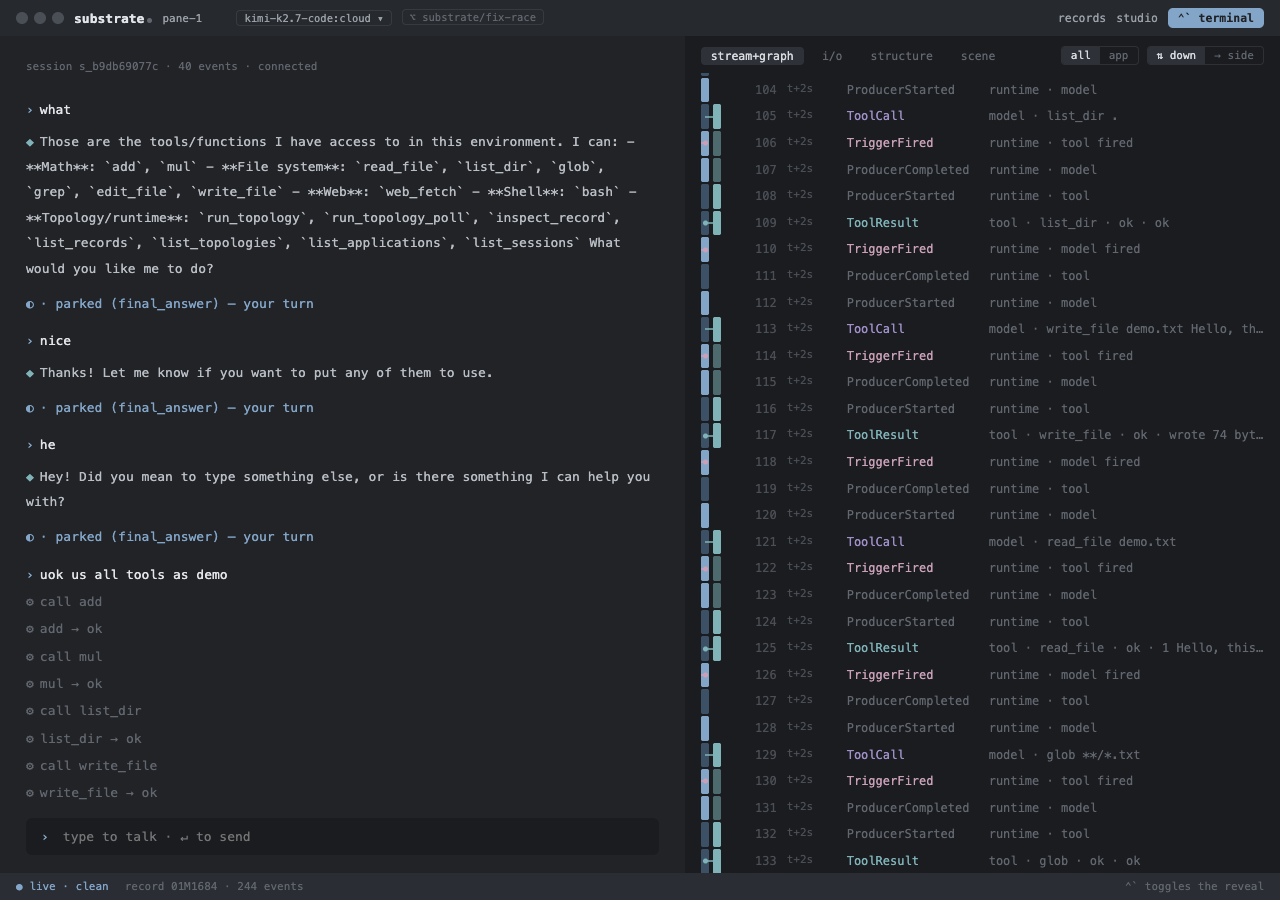
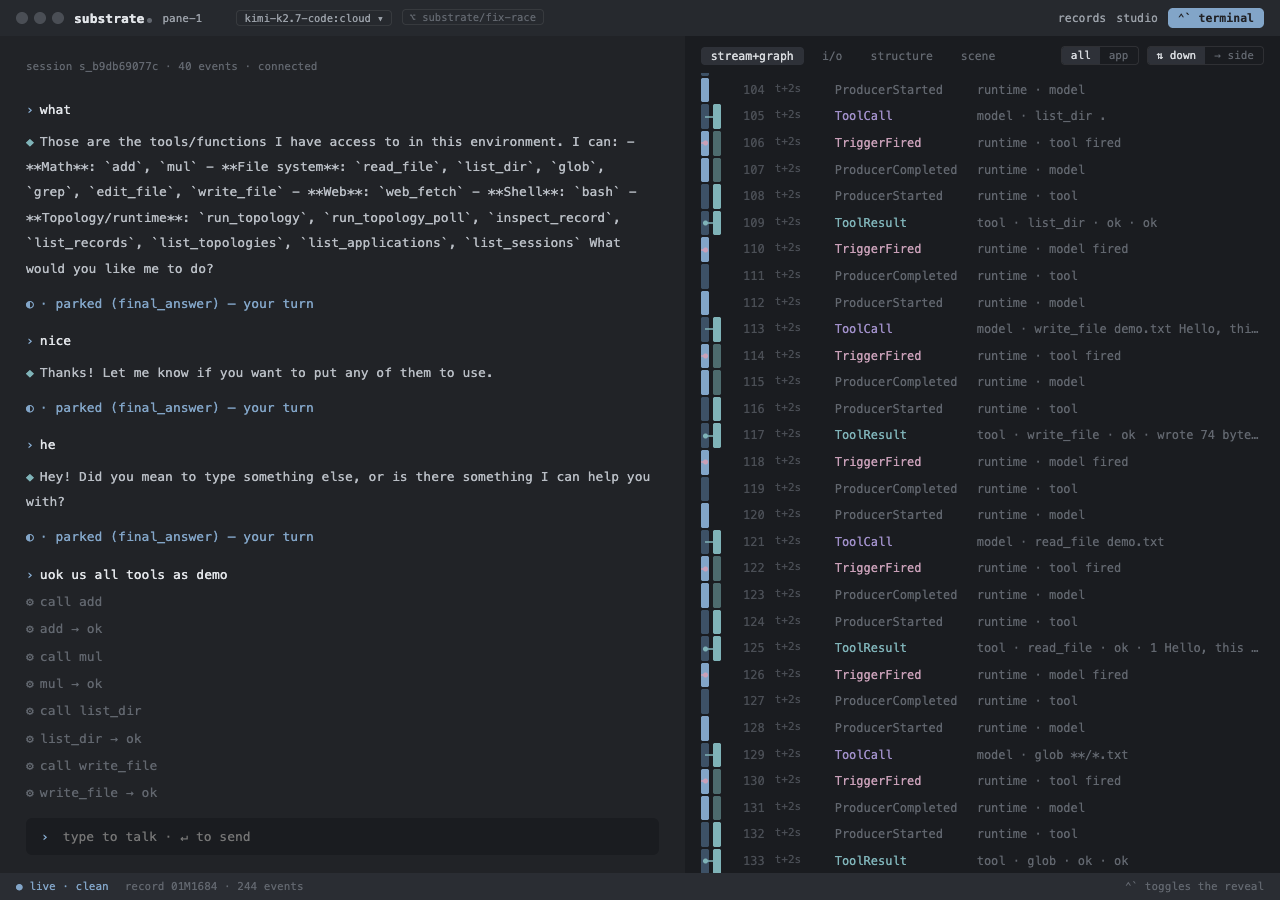
phase 4z11: two-lane shape — model + tool. Park/SessionEnded/FinalAnswer are dots on the model lifeline (session topology is model-centric)

diff --git a/web/reveal.html b/web/reveal.html
@@ -1018,40 +1018,40 @@ class Component extends DCLogic {
     // ToolCall → ToolResult; the model span runs its ProducerStarted → FinalAnswer; park spans
     // TriggerFired → Park. Concurrent spans of one kind pack into sub-tracks that appear ONLY
     // when real overlap exists, so the graph never widens for a merely long run.
-    // Design D29 amendment: "one span, ProducerStarted → FinalAnswer
-    // ('the turn is the model's')". The engine's refire-model cycle
-    // fires ProducerStarted(model) multiple times per turn (once per
-    // tool cycle), but the graph shows ONE activation from the first
-    // ProducerStarted(model) after the last turn boundary to the next
-    // FinalAnswer. Otherwise every refire opens a new sub-track
-    // because they all end at the same FinalAnswer — that "many
-    // models" packing was the bug.
+    // Session topology's shape: the model is the durable participant.
+    // Everything else (UserMessage, ToolCall, ToolResult, Park) is a
+    // message TO the model lifeline. Two lanes suffice: `model` and
+    // `tool`. Park lives on the model lane as a return-to-model dot
+    // rather than a lane of its own. Model span = ProducerStarted →
+    // FinalAnswer (D29 amendment: "the turn is the model's"), one
+    // per turn regardless of refire-model cycles.
     const _lastSeq = EV.length ? EV[EV.length - 1].seq : 0;
-    // lanes: one per producer KIND (fixed width). A lane's bars are SPANS — a tool span runs
-    // ToolCall → ToolResult; the model span runs its ProducerStarted → FinalAnswer; park spans
-    // TriggerFired → Park. Concurrent spans of one kind pack into sub-tracks that appear ONLY
-    // when real overlap exists, so the graph never widens for a merely long run.
-    const spansByKind = { model: [], tool: [], park: [] };
+    const spansByKind = { model: [], tool: [] };
     const _calls = {};
     let _modelSpanStart = null;
     EV.forEach(e => {
-      // Turn-scoped model span: open on the first ProducerStarted(model)
-      // seen while no span is open; close on the next FinalAnswer.
-      // A refire-model ProducerStarted mid-turn is a no-op here — the
-      // span stays open through the tool cycles.
       if (e.kind === 'ProducerStarted' && e.payload.kind === 'model' && _modelSpanStart === null) {
         _modelSpanStart = e.seq;
       }
       if (e.kind === 'FinalAnswer' && _modelSpanStart !== null) {
-        spansByKind.model.push({ start: _modelSpanStart, end: e.seq, color: '#3d5166', bright: '#82a5c8' });
+        // Extend the span to include the following Park (return-to-
+        // model marker) so the model bar reads as one continuous
+        // activation through the turn's park boundary.
+        const nextPark = EV.find(x => x.seq > e.seq && x.kind === 'Park');
+        const end = nextPark ? nextPark.seq : e.seq;
+        spansByKind.model.push({ start: _modelSpanStart, end, color: '#3d5166', bright: '#82a5c8' });
         _modelSpanStart = null;
       }
       if (e.kind === 'ToolCall') _calls[e.payload.call_id] = { start: e.seq, tool: e.payload.tool };
-      if (e.kind === 'ToolResult') { const c = _calls[e.payload.call_id]; if (c) spansByKind.tool.push({ start: c.start, end: e.seq, color: c.tool === 'delegate' ? '#665f7d' : '#4d6b6e', bright: c.tool === 'delegate' ? '#a08fc9' : '#7fb3b8' }); }
-      if (e.kind === 'Park') spansByKind.park.push({ start: e.seq - 1, end: e.seq, color: '#3d5166', bright: '#82a5c8' });
+      if (e.kind === 'ToolResult') {
+        const c = _calls[e.payload.call_id];
+        if (c) spansByKind.tool.push({
+          start: c.start, end: e.seq,
+          color: c.tool === 'delegate' ? '#665f7d' : '#4d6b6e',
+          bright: c.tool === 'delegate' ? '#a08fc9' : '#7fb3b8',
+        });
+      }
     });
-    // Live tail: turn is still open, no FinalAnswer seen yet. Span
-    // runs to the last envelope so the bar is visibly growing.
     if (_modelSpanStart !== null) {
       spansByKind.model.push({ start: _modelSpanStart, end: _lastSeq, color: '#3d5166', bright: '#82a5c8' });
     }
@@ -1064,13 +1064,13 @@ class Component extends DCLogic {
       tracks.forEach((t, i) => laneDefs.push({ kind, label: i === 0 ? kind : kind + ' ·' + (i + 1), spans: t }));
     });
     const kindOf = (e) => {
-      if (e.kind === 'Park' || (e.payload && e.payload.starts === 'park')) return 'park';
+      // Two-lane shape for the session topology (model + tool). Every
+      // envelope belongs to either the model lifeline (default) or the
+      // tool lifeline (only ToolCall/ToolResult and their producers).
+      // Park + SessionEnded ride the model lane — they are moments on
+      // the model's activation, not their own participants.
       if (e.prod === 'tool' || e.kind === 'ToolCall' || e.kind === 'ToolResult'
           || (e.payload && e.payload.kind === 'tool')) return 'tool';
-      // Everything else falls back to the model lane, matching the
-      // spec's three-lane sequence-diagram shape. Session-scaffold
-      // producers (session_started, per_turn_fragment, session_end)
-      // paint no bar but still show in the row list.
       return 'model';
     };
     // message connectors (sequence-diagram arrows): ToolCall = model→tool, ToolResult = tool→model,
@@ -1080,8 +1080,21 @@ class Component extends DCLogic {
     const connFor = (e) => {
       if (e.kind === 'ToolCall') { const a = cx(laneIdx.model), b = cx(laneIdx.tool); return { c: e.payload.tool === 'delegate' ? '#a08fc9' : '#7fb3b8', l: Math.min(a, b), w: Math.abs(b - a), dot: b }; }
       if (e.kind === 'ToolResult') { const a = cx(laneIdx.tool), b = cx(laneIdx.model); return { c: '#7fb3b8', l: Math.min(a, b), w: Math.abs(b - a), dot: b }; }
-      if (e.kind === 'TriggerFired') { const k = e.payload.starts === 'park' ? 'park' : e.payload.starts === 'tool' ? 'tool' : 'model'; const b = cx(laneIdx[k]); return { c: '#c9a0b8', l: 0, w: b, dot: b }; }
+      if (e.kind === 'TriggerFired') {
+        // A trigger firing points at the producer it starts. Under the
+        // two-lane shape everything but `tool` collapses to `model`.
+        const startsTool = e.payload && e.payload.starts === 'tool';
+        const b = cx(startsTool ? laneIdx.tool : laneIdx.model);
+        return { c: '#c9a0b8', l: 0, w: b, dot: b };
+      }
       if (e.kind === 'UserMessage') { const b = cx(laneIdx.model); return { c: '#88b0d0', l: 0, w: b, dot: b }; }
+      // Park / SessionEnded / FinalAnswer are moments on the model
+      // lifeline. Show a runtime-stub connector dot so the diagram
+      // reads as "return to model".
+      if (e.kind === 'Park' || e.kind === 'SessionEnded' || e.kind === 'FinalAnswer') {
+        const b = cx(laneIdx.model);
+        return { c: '#82a5c8', l: 0, w: b, dot: b };
+      }
       return null;
     };
     const events = shownEV.map(e => {
